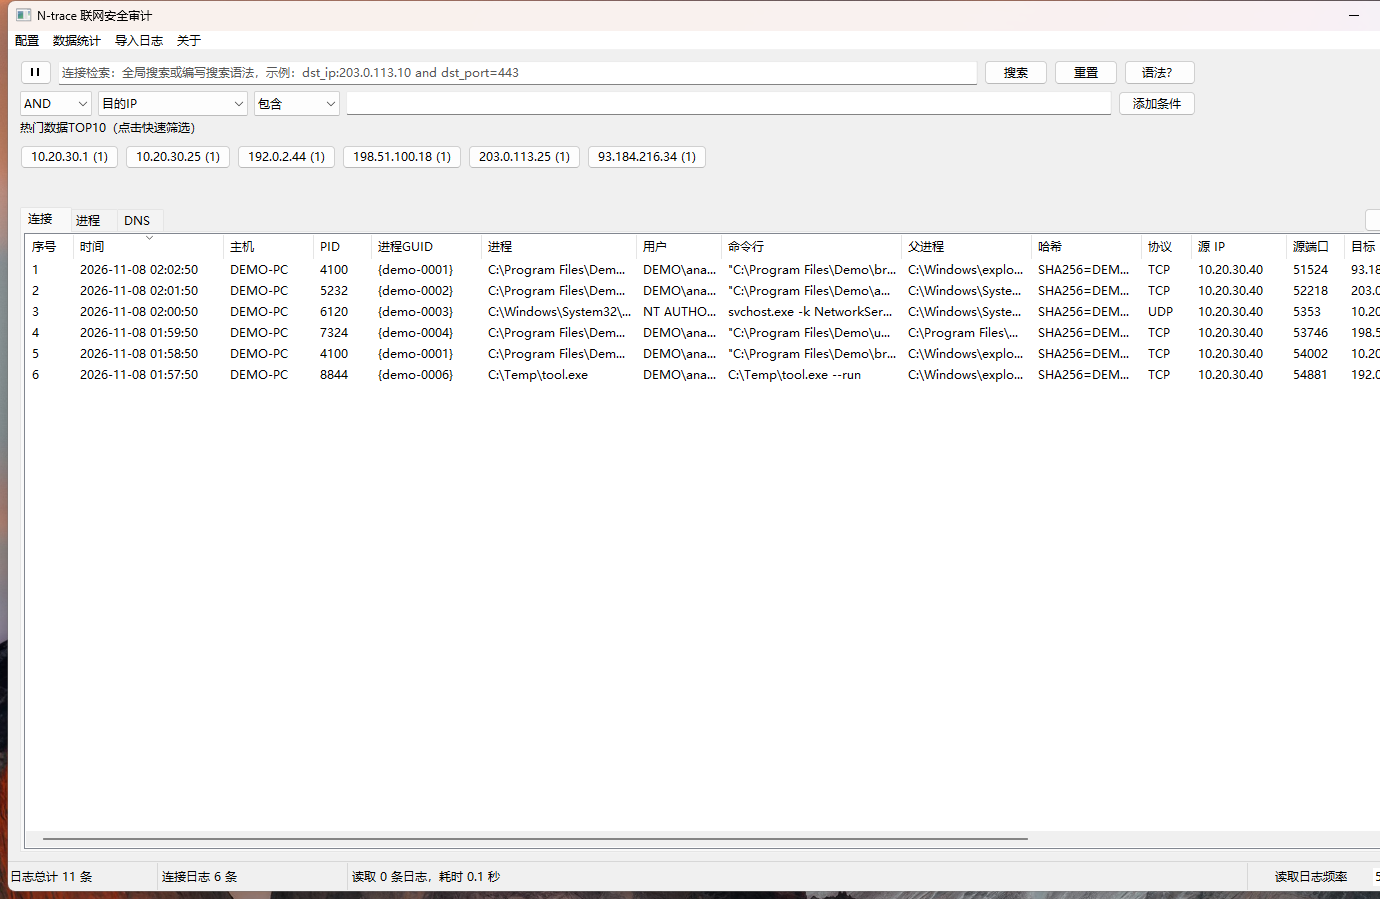
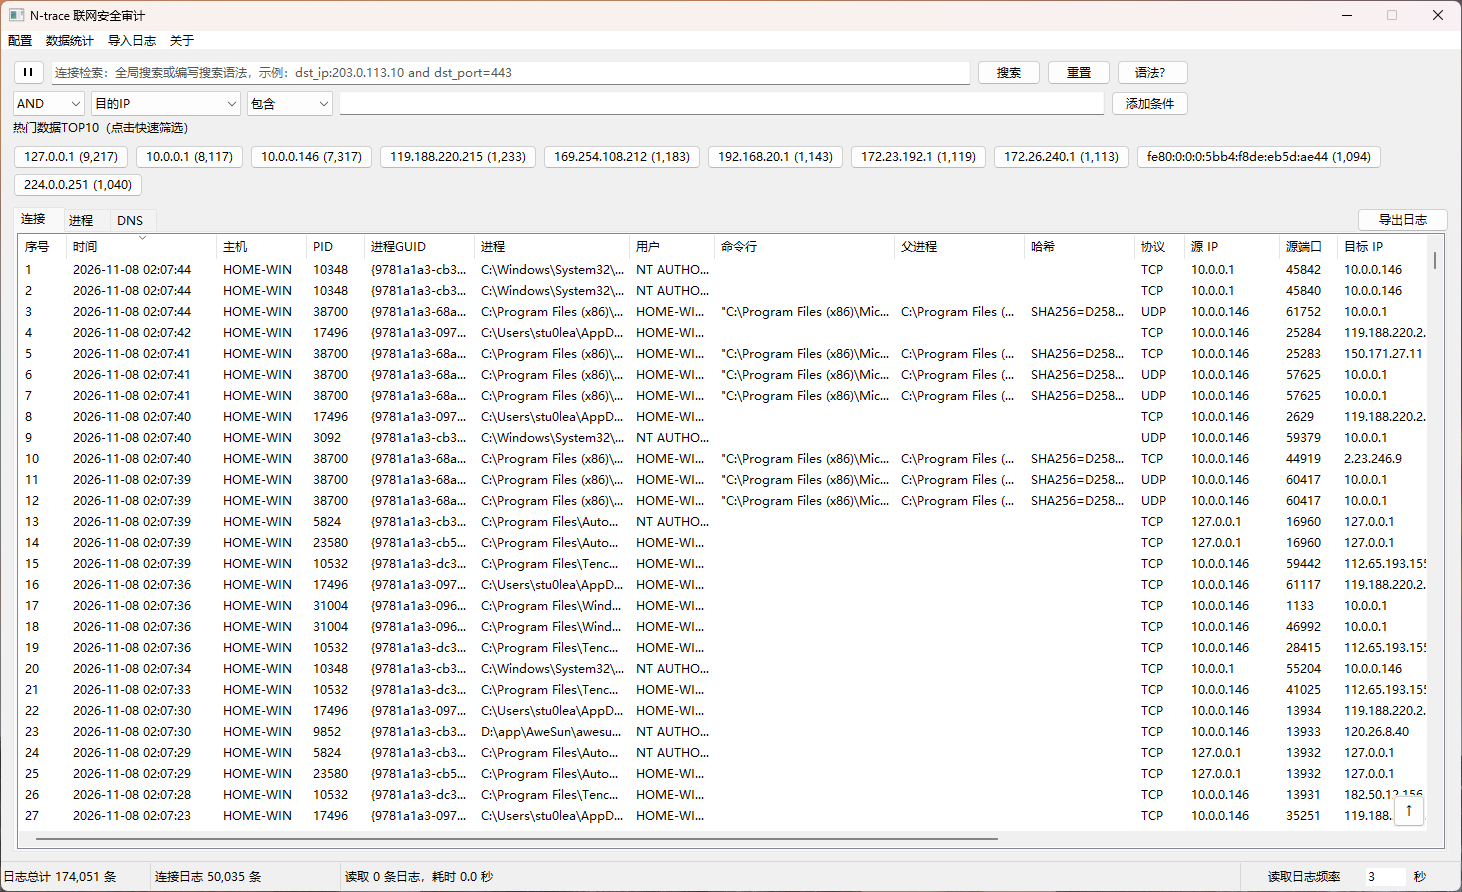
docs: refresh Windows GUI screenshots

Changed region(s): [[0.0, 0.0, 1.0, 1.0], [0.7478, 0.0605, 0.8725, 0.1211], [0.6855, 0.0605, 0.7478, 0.0908]]

diff --git a/README.md b/README.md
@@ -10,11 +10,21 @@ N-trace 是一款面向应急响应和终端排查的 Windows 联网行为审计
 
 ## 界面预览
 
-以下截图使用脱敏演示数据。
+截图仅用于展示当前界面布局。
 
 ### Windows 原生 GUI
 
+#### 连接审计
+
 ![N-trace Windows 原生 GUI](docs/images/n-trace-windows-gui.png)
+
+#### 进程审计
+
+![N-trace Windows 进程审计](docs/images/n-trace-windows-processes.png)
+
+#### DNS 审计
+
+![N-trace Windows DNS 审计](docs/images/n-trace-windows-dns.png)
 
 ### Web UI
 
